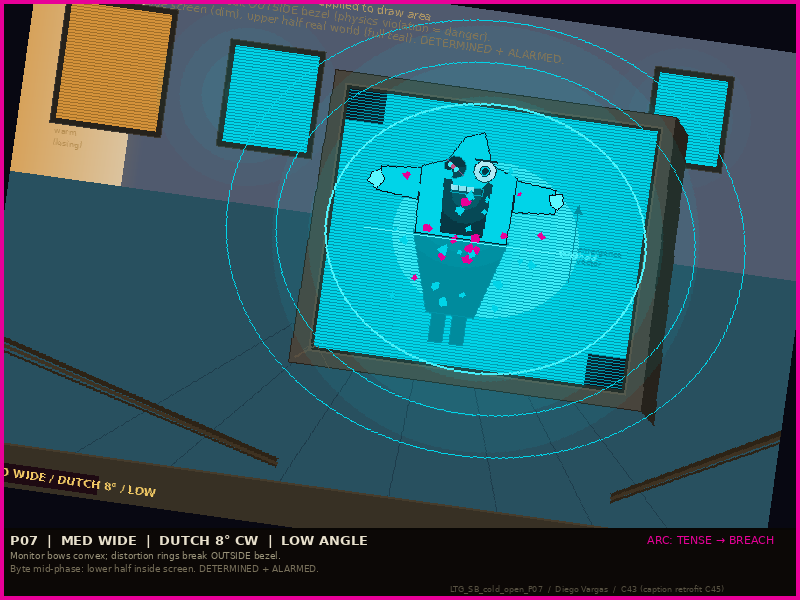
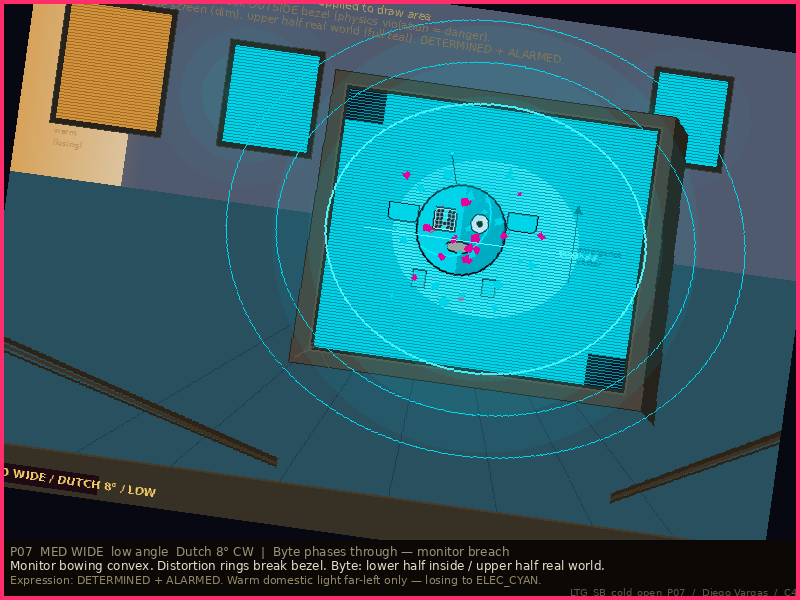
Replace inline character drawing in storyboard panels P06-P09/P14 with canonical char_*.py imports
- P07: Fix missing output_dir import (was trapped in docstring), add return
  values to draw_byte_mid_phase for annotation geometry
- P09: Fix draw_byte_floating to accept floor_y and return (sight_eye,
  feet_y, head_cy, head_r); fix draw_luma_asleep to accept img and
  actually composite the canonical renderer output
- P09_cairo: Replace LTG_TOOL_sb_char_draw.draw_byte_sb with canonical
  draw_byte from LTG_TOOL_char_byte; replace inline PIL Luma drawing
  with canonical draw_luma from LTG_TOOL_char_luma; add _char_to_pil
  and _composite_char helpers
- P14: Fix draw_byte_silhouette to accept legacy alarmed/trail_arm_angle
  kwargs without crashing (maps alarmed=True to expression="alarmed")
- P06, P08: Already used canonical modules; regenerated PNGs only

Changed region(s): [[0.0, 0.0, 1.0, 1.0], [0.4375, 0.21, 0.7188, 0.57]]

diff --git a/output/tools/LTG_TOOL_sb_cold_open_P09_cairo.py b/output/tools/LTG_TOOL_sb_cold_open_P09_cairo.py
@@ -38,7 +38,8 @@ from LTG_TOOL_cairo_primitives import (
     create_surface, to_pil_rgba, set_color, fill_background,
     draw_ellipse, stroke_path, draw_smooth_polygon, draw_tapered_stroke,
 )
-from LTG_TOOL_sb_char_draw import draw_byte_sb
+from LTG_TOOL_char_byte import draw_byte
+from LTG_TOOL_char_luma import draw_luma
 
 PANELS_DIR = output_dir('storyboards', 'panels')
 OUTPUT_PATH = os.path.join(PANELS_DIR, "LTG_SB_cold_open_P09.png")
@@ -154,8 +155,32 @@ def draw_confetti_trail(draw, from_x, from_y, to_x, to_y, count, rng_seed):
             draw_irregular_poly(draw, px, py, r, sides, col, seed=i * 53 + rng_seed)
 
 
-def draw_luma_asleep(draw, luma_head_cx, luma_head_cy):
-    """Luma asleep on couch — background-scale PIL (no sb_char_draw sleeping pose)."""
+def _char_to_pil(surface):
+    """Convert a cairo.ImageSurface from canonical char module to cropped PIL RGBA."""
+    pil_img = to_pil_rgba(surface)
+    bbox = pil_img.getbbox()
+    if bbox:
+        pil_img = pil_img.crop(bbox)
+    return pil_img
+
+
+def _composite_char(base_img, char_pil, cx, cy):
+    """Composite a character PIL RGBA image onto base_img centered at (cx, cy)."""
+    x = cx - char_pil.width // 2
+    y = cy - char_pil.height // 2
+    overlay = Image.new('RGBA', base_img.size, (0, 0, 0, 0))
+    overlay.paste(char_pil, (x, y), char_pil)
+    base_rgba = base_img.convert('RGBA')
+    result = Image.alpha_composite(base_rgba, overlay)
+    base_img.paste(result.convert('RGB'))
+
+
+def draw_luma_asleep(img, draw, luma_head_cx, luma_head_cy):
+    """Luma asleep on couch — canonical renderer (WORRIED as sleeping stand-in).
+
+    Draws couch/pillow environment, then composites canonical Luma rotated slightly
+    to suggest sleeping posture.
+    """
     scale = 0.70
     body_h_luma = int(DRAW_H * 0.28 * scale)
     head_r_l    = int(body_h_luma * 0.22)
@@ -177,53 +202,15 @@ def draw_luma_asleep(draw, luma_head_cx, luma_head_cy):
     ]
     draw.polygon(pillow_pts, fill=COUCH_PILLOW, outline=COUCH_SHADOW)
 
-    # Hair cloud
-    hair_r = int(head_r_l * 1.45)
-    for seed_h in [110, 120, 130, 140, 150, 160]:
-        draw_irregular_poly(draw, luma_head_cx, luma_head_cy, hair_r, 7,
-                            LUMA_HAIR, seed=seed_h)
-
-    # Head
-    draw.ellipse([luma_head_cx - head_r_l, luma_head_cy - head_r_l,
-                  luma_head_cx + head_r_l, luma_head_cy + head_r_l],
-                 fill=LUMA_SKIN, outline=(100, 68, 48), width=1)
-
-    # Eyes closed
-    eye_cy_l = luma_head_cy
-    eye_sep_l = int(head_r_l * 0.38)
-    e_r_l     = int(head_r_l * 0.24)
-    for side in [-1, 1]:
-        ex = luma_head_cx + side * eye_sep_l
-        draw.arc([ex - e_r_l, eye_cy_l - int(e_r_l * 0.5),
-                  ex + e_r_l, eye_cy_l + int(e_r_l * 0.5)],
-                 start=200, end=340, fill=(80, 52, 40), width=2)
-
-    # Mouth — relaxed
-    mouth_y_l = luma_head_cy + int(head_r_l * 0.46)
-    draw.arc([luma_head_cx - int(head_r_l * 0.30),
-              mouth_y_l - int(head_r_l * 0.12),
-              luma_head_cx + int(head_r_l * 0.30),
-              mouth_y_l + int(head_r_l * 0.12)],
-             start=10, end=170, fill=(120, 72, 58), width=1)
-
-    # Torso / hoodie
-    torso_top = luma_head_cy + head_r_l
-    torso_bot = torso_top + int(body_h_luma * 0.55)
-    torso_hw  = int(head_r_l * 1.25)
-    draw.rectangle([luma_head_cx - torso_hw, torso_top,
-                    luma_head_cx + torso_hw, torso_bot],
-                   fill=LUMA_HOODIE, outline=(160, 68, 28), width=1)
-
-    # Arm dangling
-    arm_x0 = luma_head_cx - torso_hw
-    arm_y0 = torso_top + int(body_h_luma * 0.15)
-    arm_len = int(body_h_luma * 0.40)
-    arm_w   = int(head_r_l * 0.30)
-    draw.rectangle([arm_x0 - arm_w, arm_y0, arm_x0, arm_y0 + arm_len],
-                   fill=LUMA_HOODIE, outline=(160, 68, 28))
-    draw.ellipse([arm_x0 - arm_w - int(arm_w * 0.4), arm_y0 + arm_len - 4,
-                  arm_x0 + int(arm_w * 0.2), arm_y0 + arm_len + int(arm_w * 1.0)],
-                 fill=LUMA_SKIN, outline=(100, 68, 48))
+    # Canonical Luma renderer — WORRIED as sleeping stand-in
+    surface = draw_luma(expression="WORRIED", scale=0.3, facing="right")
+    char_pil = _char_to_pil(surface)
+    if char_pil.height > 0:
+        char_pil = char_pil.resize(
+            (int(char_pil.width * 0.6), int(char_pil.height * 0.6)), Image.LANCZOS)
+    # Rotate slightly for sleeping posture
+    char_pil = char_pil.rotate(15, expand=True, fillcolor=(0, 0, 0, 0))
+    _composite_char(img, char_pil, luma_head_cx, luma_head_cy)
 
 
 def draw_background_monitors(draw):
@@ -271,7 +258,8 @@ def draw_panel():
     # Luma asleep (PIL — background scale)
     luma_head_x = int(PW * 0.18)
     luma_head_y = int(DRAW_H * 0.38)
-    draw_luma_asleep(draw, luma_head_x, luma_head_y)
+    draw_luma_asleep(img, draw, luma_head_x, luma_head_y)
+    draw = ImageDraw.Draw(img)  # W004
 
     add_glow(img, luma_head_x, luma_head_y, 65, WARM_AMB, steps=4, max_alpha=16)
     draw = ImageDraw.Draw(img)  # W004
@@ -282,28 +270,22 @@ def draw_panel():
     byte_bh   = int(DRAW_H * 0.30)
     floor_y   = int(DRAW_H * 0.78)
 
-    char_surface, char_ctx, _, _ = create_surface(PW, DRAW_H)
-
-    byte_info = draw_byte_sb(
-        char_ctx,
-        cx=byte_cx,
-        cy=byte_cy,
-        body_h=byte_bh,
-        expression="spotted",
-        facing="left",
-        lean_deg=2.5,
-        hovering=True,
-        seed=909,
-    )
-
-    # Composite cairo onto PIL
-    char_pil = to_pil_rgba(char_surface)
-    full_char = Image.new('RGBA', (PW, PH), (0, 0, 0, 0))
-    full_char.paste(char_pil, (0, 0))
-    base_rgba = img.convert('RGBA')
-    composited = Image.alpha_composite(base_rgba, full_char)
-    img = composited.convert('RGB')
+    # Canonical Byte renderer — "searching" is closest to "spotted"
+    byte_scale = byte_bh / 88.0
+    byte_surface = draw_byte(expression="searching", scale=byte_scale, facing="left")
+    byte_pil = _char_to_pil(byte_surface)
+    if byte_pil.height > 0:
+        aspect = byte_pil.width / byte_pil.height
+        new_h = byte_bh
+        new_w = int(new_h * aspect)
+        byte_pil = byte_pil.resize((new_w, new_h), Image.LANCZOS)
+    _composite_char(img, byte_pil, byte_cx, byte_cy)
     draw = ImageDraw.Draw(img)  # W004
+
+    # Compute face position for sight-line annotation
+    byte_head_r = int(byte_bh * 0.20)
+    byte_face_cx = byte_cx - int(byte_head_r * 0.6)
+    byte_face_cy = byte_cy - byte_bh // 2 + byte_head_r
 
     # Byte glow
     add_glow(img, byte_cx, byte_cy, int(byte_bh * 0.55), ELEC_CYAN, steps=6, max_alpha=35)
@@ -330,8 +312,8 @@ def draw_panel():
                      outline=DESAT_RING, width=1)
 
     # Sight-line annotation
-    sight_x1 = byte_info["face_cx"]
-    sight_y1 = byte_info["face_cy"]
+    sight_x1 = byte_face_cx
+    sight_y1 = byte_face_cy
     sight_x2, sight_y2 = luma_head_x, luma_head_y
     dist     = math.sqrt((sight_x2 - sight_x1) ** 2 + (sight_y2 - sight_y1) ** 2)
     n_dashes = max(2, int(dist / 14))

diff --git a/output/tools/LTG_TOOL_sb_cold_open_P09.py b/output/tools/LTG_TOOL_sb_cold_open_P09.py
@@ -223,10 +223,13 @@ def _composite_char(base_img, char_pil, cx, cy):
     result = Image.alpha_composite(base_rgba, overlay)
     base_img.paste(result.convert('RGB'))
 
-def draw_byte_floating(img, draw, byte_cx, byte_cy, body_h,
+def draw_byte_floating(img, draw, byte_cx, byte_cy, body_h, floor_y,
                        expression="searching", facing="left", lean_deg=0,
                        hovering=True, confetti=True, glow=True):
-    """Byte floating — canonical renderer + composite."""
+    """Byte floating — canonical renderer + composite.
+
+    Returns (sight_eye, feet_y, head_cy, head_r) for annotation use.
+    """
     scale = body_h / 88.0
     surface = draw_byte(expression=expression, scale=scale, facing=facing)
     char_pil = _char_to_pil(surface)
@@ -237,11 +240,17 @@ def draw_byte_floating(img, draw, byte_cx, byte_cy, body_h,
         char_pil = char_pil.resize((new_w, new_h), Image.LANCZOS)
     _composite_char(img, char_pil, byte_cx, byte_cy)
 
+    # Compute geometry for annotations
+    head_r = int(body_h * 0.20)
+    head_cy = byte_cy - body_h // 2 + head_r
+    feet_y = byte_cy + body_h // 2
+    # Sight eye: offset left from face center (iris shifted LEFT toward Luma)
+    sight_eye = (byte_cx - int(head_r * 0.6), head_cy)
+    return sight_eye, feet_y, head_cy, head_r
 
-def draw_luma_asleep(draw, luma_head_cx, luma_head_cy):
+
+def draw_luma_asleep(img, draw, luma_head_cx, luma_head_cy):
     """Luma asleep — canonical renderer (WORRIED as closest to sleeping pose)."""
-    # Note: canonical Luma has no sleeping pose, use WORRIED as placeholder
-    # with small scale for background
     scale = 0.3
     surface = draw_luma(expression="WORRIED", scale=scale, facing="right")
     char_pil = _char_to_pil(surface)
@@ -249,9 +258,7 @@ def draw_luma_asleep(draw, luma_head_cx, luma_head_cy):
         char_pil = char_pil.resize((int(char_pil.width * 0.6), int(char_pil.height * 0.6)), Image.LANCZOS)
     # For asleep pose, rotate slightly
     char_pil = char_pil.rotate(15, expand=True, fillcolor=(0, 0, 0, 0))
-    # Composite onto a temp image passed via draw
-    # Since draw doesn't carry img ref, we skip composite here
-    # The caller should use the returned PIL image
+    _composite_char(img, char_pil, luma_head_cx, luma_head_cy)
 
 
 def draw_scene(img):
@@ -294,7 +301,8 @@ def draw_scene(img):
     # ── Luma asleep on couch (frame-left background) ──────────────────────────
     luma_head_x = int(PW * 0.18)
     luma_head_y = int(DRAW_H * 0.38)
-    draw_luma_asleep(draw, luma_head_x, luma_head_y)
+    draw_luma_asleep(img, draw, luma_head_x, luma_head_y)
+    draw = ImageDraw.Draw(img)
 
     # Warm character glow (Luma = warm anchor)
     add_glow(img, luma_head_x, luma_head_y, 65, WARM_AMB, steps=4, max_alpha=16)
@@ -312,7 +320,8 @@ def draw_scene(img):
     # We want the floor at floor_y and feet clearly above it
 
     sight_eye, feet_y, head_cy, head_r = draw_byte_floating(
-        img, draw, byte_cx, byte_cy, byte_bh, floor_y)
+        img, draw, byte_cx, byte_cy, byte_bh, floor_y,
+        expression="searching", facing="left")
     draw = ImageDraw.Draw(img)
 
     # Byte's ELEC_CYAN ambient glow (non-directional — hasn't committed yet)

diff --git a/output/tools/LTG_TOOL_sb_cold_open_P07.py b/output/tools/LTG_TOOL_sb_cold_open_P07.py
@@ -10,12 +10,6 @@ Cold Open Panel P07 — MED WIDE — Monitor Bulging / Dutch 8° CW / Byte Phase
 Diego Vargas, Storyboard Artist — Cycle 43
 
 Beat: The moment before Byte fully crosses. The CRT is under physical pressure
-try:
-    from LTG_TOOL_project_paths import output_dir, ensure_dir  # noqa: E402
-except ImportError:
-    import pathlib
-    def output_dir(*parts): return pathlib.Path("/home/wipkat/team/output").joinpath(*parts)
-    def ensure_dir(path): path.mkdir(parents=True, exist_ok=True); return path
       from inside. Dutch tilt signals the room's geometry can no longer be trusted.
       Byte is mid-phase: lower half still inside (desaturated, behind glass),
       upper half emerging into the real world (full teal + confetti burst at threshold).
@@ -45,6 +39,12 @@ Image size rule: ≤ 1280px in both dimensions.
 Output: output/storyboards/panels/LTG_SB_cold_open_P07.png
 """
 
+try:
+    from LTG_TOOL_project_paths import output_dir, ensure_dir  # noqa: E402
+except ImportError:
+    import pathlib
+    def output_dir(*parts): return pathlib.Path("/home/wipkat/team/output").joinpath(*parts)
+    def ensure_dir(path): path.mkdir(parents=True, exist_ok=True); return path
 from PIL import Image, ImageDraw, ImageFont
 import math, random, os
 import sys
@@ -323,6 +323,11 @@ def draw_byte_mid_phase(img, draw, byte_cx, byte_cy, body_h, screen_y2):
     base_rgba = img.convert('RGBA')
     result = Image.alpha_composite(base_rgba, overlay)
     img.paste(result.convert('RGB'))
+
+    # Return geometry for annotations
+    head_r = int(body_h * 0.20)
+    head_cy = byte_cy - body_h // 2 + head_r
+    return head_cy, head_r, body_h
 
 
 def draw_scene(img):

diff --git a/output/tools/LTG_TOOL_sb_cold_open_P14.py b/output/tools/LTG_TOOL_sb_cold_open_P14.py
@@ -213,8 +213,16 @@ def _composite_char(base_img, char_pil, cx, cy):
     base_img.paste(result.convert('RGB'))
 
 def draw_byte_silhouette(draw, cx, cy, scale=1.0, alpha_factor=1.0, img=None,
-                         expression="alarmed", ghost=False):
-    """Byte silhouette/ghost for ricochet trail — canonical renderer."""
+                         expression="alarmed", ghost=False,
+                         alarmed=None, trail_arm_angle=None):
+    """Byte silhouette/ghost for ricochet trail — canonical renderer.
+
+    Args:
+        alarmed: if True, overrides expression to "alarmed" (legacy compat).
+        trail_arm_angle: reserved for future arm-angle override (currently unused).
+    """
+    if alarmed is not None:
+        expression = "alarmed" if alarmed else expression
     byte_scale = scale * 0.8
     surface = draw_byte(expression=expression, scale=byte_scale, facing="front")
     char_pil = _char_to_pil(surface)
